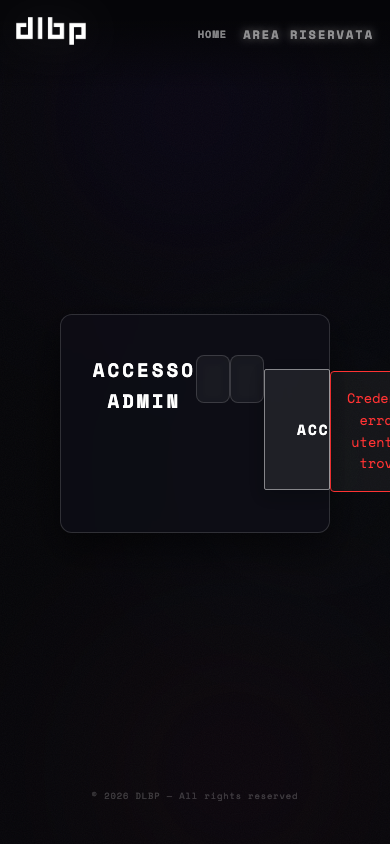
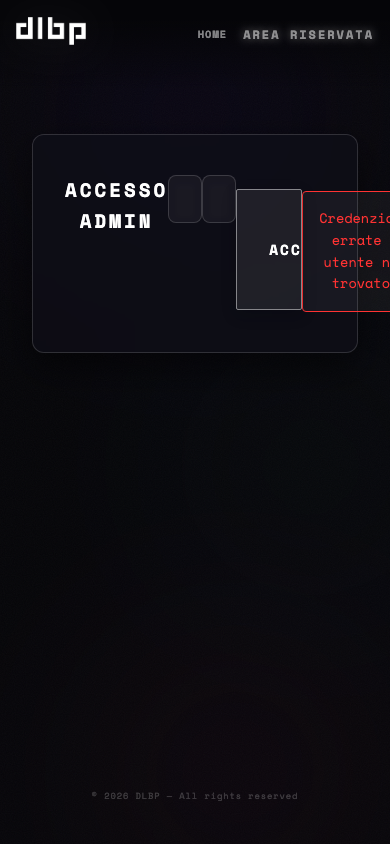
Fix(UI): Add mandatory top padding to .eventi-page container to prevent fixed navbar header overlap on mobile and desktop viewports

diff --git a/css/styles.css b/css/styles.css
@@ -47,8 +47,7 @@ body {
     display: flex;
     flex-direction: column;
     align-items: center;
-    justify-content: flex-start;
-    padding-top: 130px;
+    justify-content: center;
     position: relative;
 }
 
@@ -1005,7 +1004,7 @@ input::placeholder {
 /* Unified Login Card (Admin, PR, Scanner) */
 .login-card, #login-section {
     max-width: 420px;
-    width: 90%;
+    width: 100%;
     margin: 1.5rem auto 3rem auto;
     padding: 2.5rem 2rem;
     background: var(--glass-bg);
@@ -1519,7 +1518,7 @@ input::placeholder {
     z-index: 2;
     max-width: 1100px;
     margin: 0 auto;
-    padding: 10rem 2rem 4rem;
+    padding: 130px 2rem 4rem 2rem !important;
     text-align: center;
     flex: 1 0 auto;
     width: 100%;
@@ -1930,6 +1929,9 @@ input::placeholder {
 }
 
 @media (max-width: 768px) {
+    .eventi-page {
+        padding: 110px 1.2rem 3rem 1.2rem !important;
+    }
     .main-nav {
         padding: 1.2rem 1.5rem 1rem 1.5rem;
         background: transparent;
